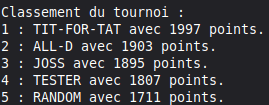
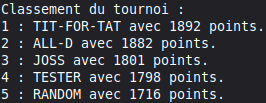
tested all results

diff --git a/Journal/Journal.md b/Journal/Journal.md
@@ -1,17 +1,17 @@
-# Projet 2 HAI716I 2026 - Journal de bord DOMBROWSKI Tahina
+# Projet 2 HAI716I 2026 - Journal de bord - DOMBROWSKI Tahina
 
 ## Vendredi 13/11/2026 :
 20 tours, ALL-D contre RANDOM, graine de 40.
 Problèmes de relation main/StratPlayer (attributs définits const, dédoublage des variables hors classe)
 
-passage au tournoi tous contre tous, 10 tours pour lisibilité, graine 40.
-Tester ne faisait pas le résultat attendu car le compteur de C était mise à jour avant de savoir si C est effectivement joué.
+Passage au tournoi tous contre tous, 10 tours pour lisibilité, graine 40.
+TESTER ne faisait pas le résultat attendu car le compteur de C était mis à jour avant de savoir si C est effectivement joué.
 Le tournoi fonctionne, il y a bien eu un JOSS démarrant avec D.
 
-ALL-D vs RANDOM : ALL-D gagne (si RANDOM joue C, ALL-D gagne 5, si RANDOM joue D, ALL-D gagne autant)
-ALL-D vs TIT-FOR-TAT : ALL-D gagne (trahison de 5 pour le premier tour pour ALL-D, puis autant)
-ALL-D vs TESTER : Egalite (Tester commence par D puis TIT-FOR-TAT)
-ALL-D vs JOSS : Egalite si Joss commence par D, ALL-D gagne sinon
+- ALL-D vs RANDOM : ALL-D gagne (si RANDOM joue C, ALL-D gagne 5, si RANDOM joue D, ALL-D gagne autant)
+- ALL-D vs TIT-FOR-TAT : ALL-D gagne (trahison de 5 pour le premier tour pour ALL-D, puis autant)
+- ALL-D vs TESTER : Egalite (Tester commence par D puis TIT-FOR-TAT)
+- ALL-D vs JOSS : Egalite si Joss commence par D, ALL-D gagne sinon
 
 TIT-FOR-TAT perd contre RANDOM car RANDOM trahit du tour 5 jusqu'à la fin, donc TIT-FOR-TAT ne récupère pas la différence.
 
@@ -30,11 +30,11 @@ Nouvelles stratégies, toutes deux issues de mon imagination :
     * majoritairement C peu importe son choix : TESTER (essaye de soutirer des points) 
     * majoritairement D peu importe son choix : ALL-D (stratégie défensive)
     * majoritairement C s'il choisit C et majoritairement D s'il choisit D : TIT-FOR-TAT (réciproque par sécurité)
-    * majoritairement D s'il choisit C et majoritairement C s'il choisit D : ALTERNATORC (peut trahir après une trahison)
+    * majoritairement D s'il choisit C et majoritairement C s'il choisit D : ALTERNATOR-C (peut trahir après une trahison)
 
 ![screenshot](FOUR-T_strat_switch.png)
 
-A évolué en Thirty TTT : mallus des 15 tours de coopération. Avoir ALL-D comme stratégie après n'importe quelle décision aurait été plus efficace, mais moins intéressant. La stratégie la plus intéressante à étudier de base est TESTER. Un match test pour T = 10 puis pour T = 30 en 40 tours a été effectué :
+A évolué en Thirty TTT (15 C puis 15 D puis changement de stratégie) : mallus des 15 tours de coopération. Avoir ALL-D comme stratégie après n'importe quelle décision aurait été plus efficace, mais moins intéressant. La stratégie la plus intéressante à étudier de base est TESTER. Un match test pour T = 10 puis pour T = 30 en 40 tours a été effectué :
 
 ![screenshot](Result_FOUR-T_vs_TESTER_T10.png)
 
@@ -54,7 +54,7 @@ Ajout de l'option de tournoi Axelrod 200 tours avec les cinq stratégies de base
 
 ![screenshot](Axelrod_base.png)
 
-TIT-FOR-TAT gagne bien cette fois.
+TIT-FOR-TAT gagne bien cette fois. Il est battu par ALL-D dans le tournoi élargi car ALL-D gagne des points sur les stratégies qui choisissent régulièrement C (RANDOM, ALTERNATOR-C, les T/2 premiers tours de FOUR-T), ce qui lui permet de creuser un écart avec TIT-FOR-TAT grâce aux points de trahison. FOUR-T et ALTERNATOR-C n'ont battu que RANDOM dans le classement car ALTERNATOR-C prend beaucoup de trahison, et FOUR-T est générallement pénalisé durant le test C.
 
 ## Dimanche 15/11/2026 :
 Modifications choisies : Bruit et Horizon inconnu, toutes deux des modifications ajoutant de l'aléa dans les parties, ce qui peut potentiellement démarquer les stratégies qui étaient à égalité ou avaient un avantage par rapport au nombre de tour. Ces modifications affecteront l'estimation de FOUR-T avec T = 30 (bruit) et ses chances de réussite (horizon inconnu).
@@ -72,7 +72,7 @@ Résultats :
 
 ![screenshot](Axelrod_noise_0.05.png)
 
-A ma grande surprise, FOUR-T est classé deuxième. L'inversement de coup biaise l'estimation de FOUR-T, qui pense que la réponse de l'adversaire est celle du choix qu'il a faut, et non de son inverse. Pour ce qui était initallement un TIT-FOR-TAT leaning avec une faible majorité de réponse réciproque, un changement peut renverser totallement la différence C-D, ce qui change entièrement la stratégie choisie par FOUR-T. De plus, un changement tôt durant la phase C face à TESTER active son mode TIT-FOR-TAT, le forçant ainsi à rester coopératif après le changement, au lieu de trahir une fois sur trois.
+A ma grande surprise, FOUR-T est classé deuxième. L'inversement de coup biaise l'estimation de FOUR-T, qui pense que la réponse de l'adversaire est celle du choix qu'il a fait initialement, et non de son inverse. Pour ce qui était initalement un TIT-FOR-TAT leaning avec une faible majorité de réponse réciproque, un changement peut renverser totalement la différence C-D, ce qui change entièrement la stratégie choisie par FOUR-T. De plus, un changement tôt durant la phase C face à TESTER active son mode TIT-FOR-TAT, le forçant ainsi à rester coopératif après le changement, au lieu de trahir une fois sur trois. Les stratégies ne savent pas que leurs propres ont été inversés, donc ALTERNATOR-C agit comme s'il a bien joué C au lieu de D s'il y a trois D d'affilé.
 
 Prédiction horizon inconnu 95% :
 1. ALL-D (pas de changement significatif)
@@ -87,4 +87,4 @@ Résultats :
 
 ![screenshot](Axelrod_noise_0.05.png)
 
-... J'ai clairement sous-estimé l'impact des 5% d'interromptre une partie. Il s'avère que certaines parties durent moins de 5 tours, tandis que d'autres durent plus de 20. Cela crée un déséquilibre conséquent, car ceux qui ont les tours les plus court ont le moins de points, et pour cette graine, ALL-D reçoit clairement ce désavantage.
+... J'ai clairement sous-estimé l'impact des 5% d'interromptre une partie. Il s'avère que certaines parties durent moins de 5 tours, tandis que d'autres durent plus de 20. Cela crée un déséquilibre conséquent, car ceux qui ont les tours les plus courts obtiennent le moins de points, et pour cette graine, ALL-D reçoit clairement ce désavantage.
